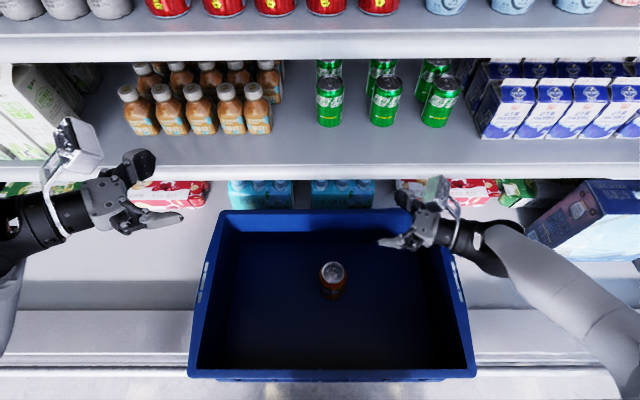
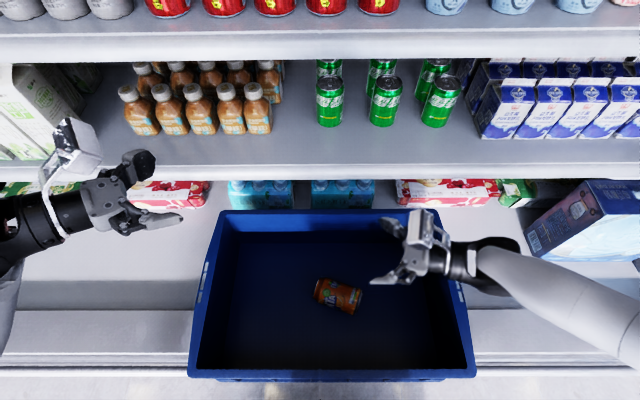
fix & add ckpt

diff --git a/src/openpi/serving/websocket_policy_server.py b/src/openpi/serving/websocket_policy_server.py
@@ -25,7 +25,7 @@ class WebsocketPolicyServer:
         host: str = "0.0.0.0",
         port: int | None = None,
         metadata: dict | None = None,
-        execute_k: int = 10,
+        execute_k: int = 15,
         overlap_new_weight: float = 0.75,
         use_vp_noise: bool = True,
         noise_beta: float = 0.5,
@@ -160,7 +160,11 @@ class WebsocketPolicyServer:
                     self._action_buffer = [chunk_arr[i] for i in range(k)]
                     self._overlap_buffer = chunk_arr[k:] if k < len(chunk_arr) else None
 
-                action = {"action": self._action_buffer.pop(0)}
+                # PiPolicy / genie_sim expect `actions` to be a sequence of per-step vectors
+                # (deque iterates the outer sequence). A single 1D ndarray would iterate as
+                # per-dimension scalars — wrap as a one-element list.
+                step = np.asarray(self._action_buffer.pop(0))
+                action = {"actions": [step]}
 
 
                 action["server_timing"] = {
